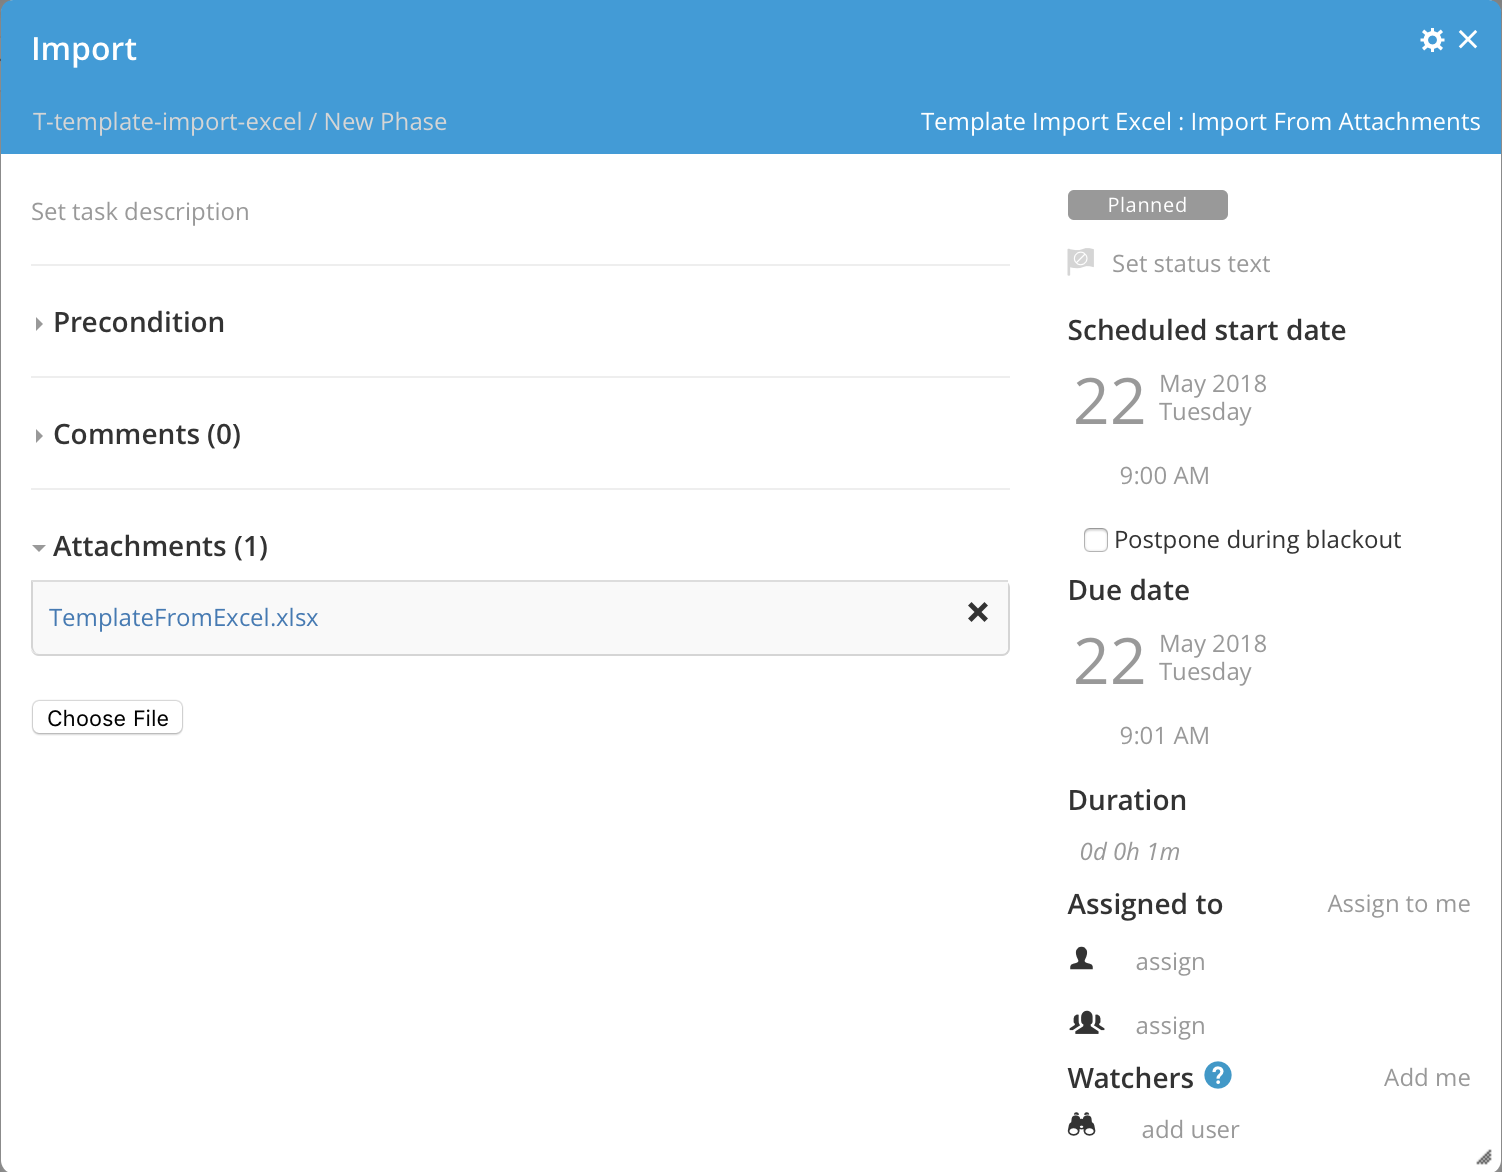
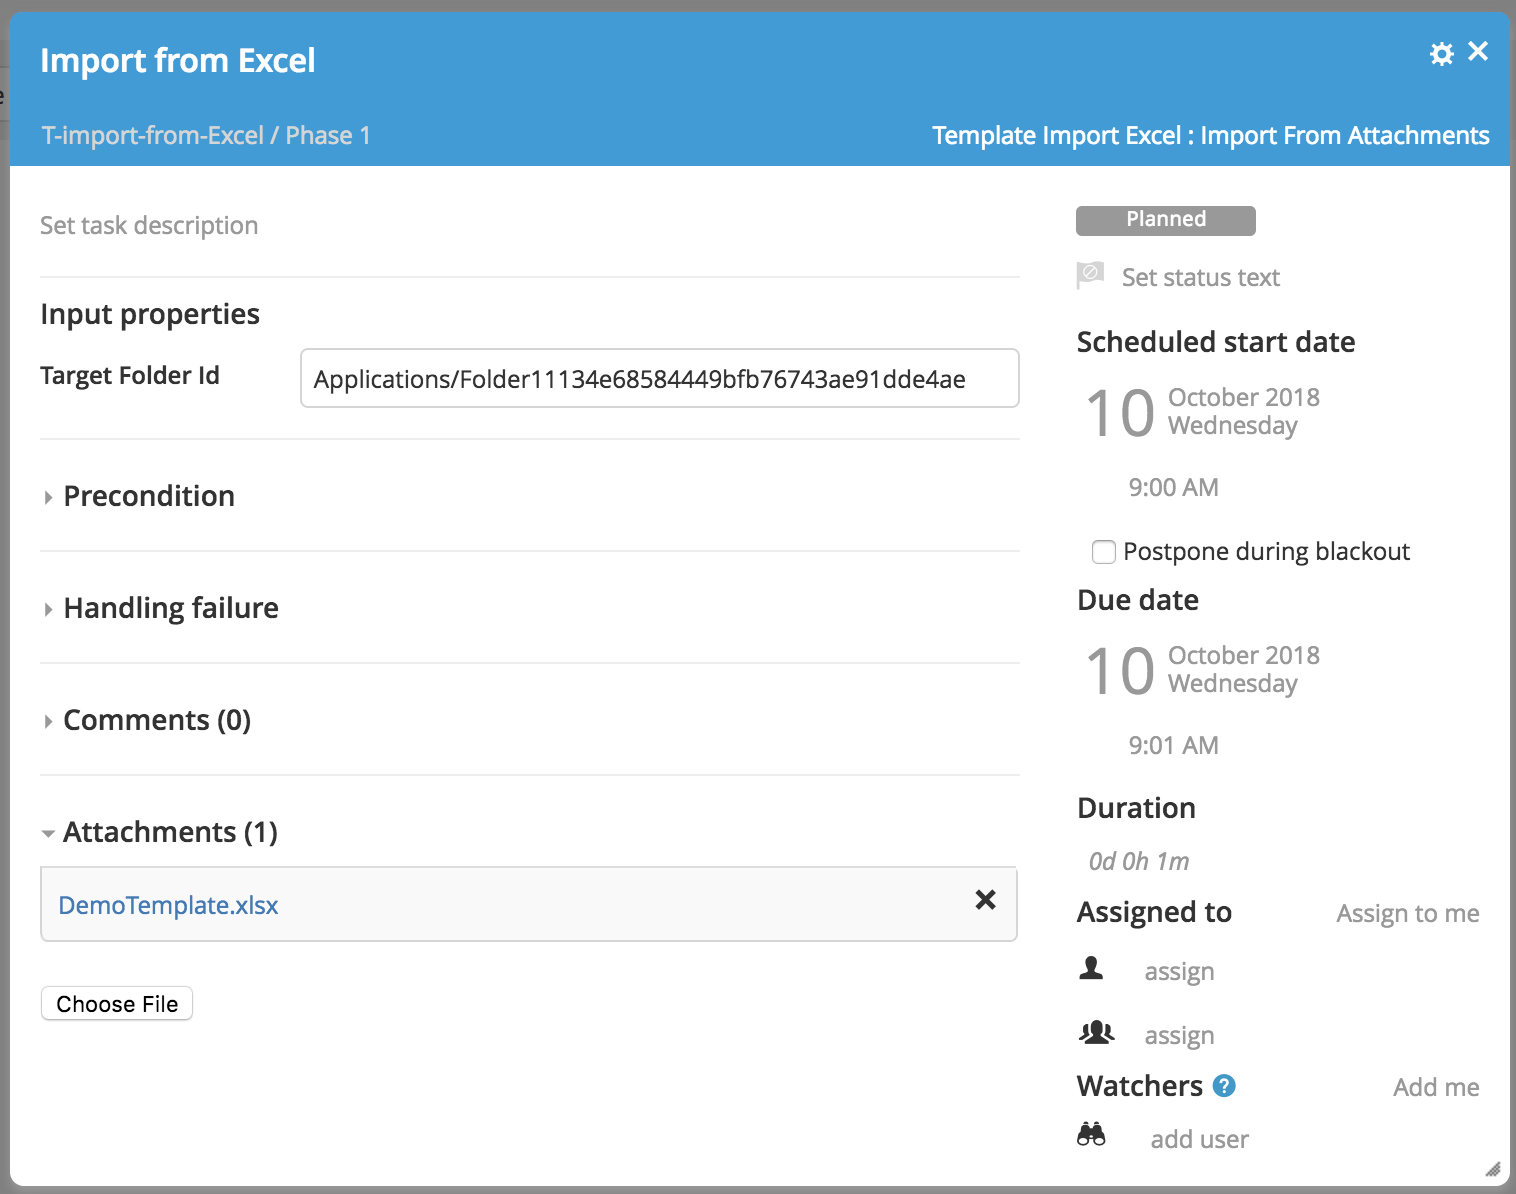
Update createTemplate() args for XLR 8

diff --git a/src/main/resources/templateImportExcel/TemplateImportExcelClient.py b/src/main/resources/templateImportExcel/TemplateImportExcelClient.py
@@ -33,10 +33,11 @@ class Template_Import_Excel_Client(object):
 
     durationMatcher = None
 
-    def __init__(self, workbook, templateName, templateApi, phaseApi, taskApi):
+    def __init__(self, workbook, targetFolderId, templateName, templateApi, phaseApi, taskApi):
         self.columnXref = {}
         self.currentPhaseTitle = None
         self.currentPhase = None
+        self.targetFolderId = targetFolderId
         self.templateName = templateName
         self.workbook = workbook
         self.templateApi = templateApi
@@ -45,8 +46,8 @@ class Template_Import_Excel_Client(object):
         self.durationMatcher = re.compile("(?:([0-9]+)d)? *(?:([0-9]+)h)? *(?:([0-9]+)m)?")
 
     @staticmethod
-    def create_client(workbook, templateName, templateApi, phaseApi, taskApi):
-        return Template_Import_Excel_Client(workbook, templateName, templateApi, phaseApi, taskApi)
+    def create_client(workbook, targetFolderId, templateName, templateApi, phaseApi, taskApi):
+        return Template_Import_Excel_Client(workbook, targetFolderId, templateName, templateApi, phaseApi, taskApi)
 
     def doHeaderRow(self, row):
         for cell in row:
@@ -145,7 +146,7 @@ class Template_Import_Excel_Client(object):
         template.setTitle(self.templateName)
         template.setStatus(ReleaseStatus.TEMPLATE)
         template.setScheduledStartDate(Date())
-        self.template = self.templateApi.createTemplate(template)
+        self.template = self.templateApi.createTemplate(template, self.targetFolderId)
 
         for row in sheet:
             print "Row %d\n" % row.getRowNum()

diff --git a/src/main/resources/templateImportExcel/import-rest.py b/src/main/resources/templateImportExcel/import-rest.py
@@ -16,11 +16,11 @@ from templateImportExcel.TemplateImportExcelClientUtil import Template_Import_Ex
 
 logger.info("Executing templateImportExcel/import-rest.py")
 
+targetFolderId = request.entity['data']['targetFolderId']
 templateName = request.entity['data']['templateName']
 workbook = XSSFWorkbook(ByteArrayInputStream(Base64.decodeBase64(request.entity['data']['result'])))
 print "created workbook\n"
-templateName = attachment.getFile().getName().split('.')[-2]
-client = Template_Import_Excel_Client_Util.create_client(workbook, templateName, templateApi, phaseApi, taskApi)
+client = Template_Import_Excel_Client_Util.create_client(workbook, targetFolderId, templateName, templateApi, phaseApi, taskApi)
 client.convertWorkbookToTemplate()
 
 logger.info("Exiting import-rest.py")

diff --git a/samples/send-file-via-rest-api-1.1.0.py b/samples/send-file-via-rest-api-1.1.0.py
@@ -3,9 +3,10 @@ import json
 import requests
 import sys
 
-templateName = sys.argv[1]
-filename = sys.argv[2]
-auth = (sys.argv[3], sys.argv[4])
+targetFolderId = sys.argv[1]
+templateName = sys.argv[2]
+filename = sys.argv[3]
+auth = (sys.argv[4], sys.argv[5])
 
 headers = {'Content-Type':'application/json'}
 
@@ -18,7 +19,6 @@ while (b != ''):
   b = f.read(1)
 print len(bytes)
 bytearray = b''.join(bytes)
-payload = {"data":{"templateName":templateName, "result":base64.b64encode(bytearray)}}
+payload = {"data":{"targetFolderId":targetFolderId, "templateName":templateName, "result":base64.b64encode(bytearray)}}
 r = requests.post('http://localhost:5516/api/extension/templateImportExcel/import', json.dumps(payload), auth=auth, headers=headers)
 print r
-

diff --git a/src/main/resources/templateImportExcel/TemplateImportExcelClientUtil.py b/src/main/resources/templateImportExcel/TemplateImportExcelClientUtil.py
@@ -13,6 +13,6 @@ from templateImportExcel.TemplateImportExcelClient import Template_Import_Excel_
 class Template_Import_Excel_Client_Util(object):
 
     @staticmethod
-    def create_client(workbook, templateName, templateApi, phaseApi, taskApi):
+    def create_client(workbook, targetFolderId, templateName, templateApi, phaseApi, taskApi):
         print "Executing create_client() in Template_Import_Excel_Client_Util class in TemplateImportExcelClientUtil.py\n"
-        return Template_Import_Excel_Client.create_client(workbook, templateName, templateApi, phaseApi, taskApi)
+        return Template_Import_Excel_Client.create_client(workbook, targetFolderId, templateName, templateApi, phaseApi, taskApi)

diff --git a/src/main/resources/templateImportExcel/import-task.py b/src/main/resources/templateImportExcel/import-task.py
@@ -18,7 +18,7 @@ for attachment in getCurrentTask().getAttachments():
         workbook = XSSFWorkbook(ByteArrayInputStream(releaseApi.getAttachment(attachment.getId())))
         print "created workbook\n"
         templateName = attachment.getFile().getName().split('.')[-2]
-        client = Template_Import_Excel_Client_Util.create_client(workbook, templateName, templateApi, phaseApi, taskApi)
+        client = Template_Import_Excel_Client_Util.create_client(workbook, targetFolderId, templateName, templateApi, phaseApi, taskApi)
         client.convertWorkbookToTemplate()
     else:
         print "Attachment %s is not a spreadsheet\n" % attachment.getFile().getName()

diff --git a/samples/send-file-via-rest-api-1.0.2.py b/samples/send-file-via-rest-api-1.0.2.py
@@ -1,0 +1,23 @@
+import base64
+import json
+import requests
+import sys
+
+templateName = sys.argv[1]
+filename = sys.argv[2]
+auth = (sys.argv[3], sys.argv[4])
+
+headers = {'Content-Type':'application/json'}
+
+bytes = []
+
+f = open(filename, 'rb')
+b = f.read(1)
+while (b != ''):
+  bytes.append(b)
+  b = f.read(1)
+print len(bytes)
+bytearray = b''.join(bytes)
+payload = {"data":{"templateName":templateName, "result":base64.b64encode(bytearray)}}
+r = requests.post('http://localhost:5516/api/extension/templateImportExcel/import', json.dumps(payload), auth=auth, headers=headers)
+print r

diff --git a/README.md b/README.md
@@ -26,7 +26,8 @@ Coding for Team and Duration is not complete, so those columns will be ignored p
 
 ## Requirements
 
-* XL Release 7+
+* XL Release 7.x for verions 1.0.1 or 1.0.2
+* XL Release 8+ for version 1.1.0
 
 ## Installation
 
@@ -37,6 +38,7 @@ Coding for Team and Duration is not complete, so those columns will be ignored p
 
 * The Import-from-Attachments task imports multiple Excel spreadsheet attachments on a task and converts then into templates base on the file name.
 * The plugin can also accept an Excel spreadsheet file via the REST API.
+* Version 1.1.0 (XL Release 8+) offers a targetFolderId property.  If empty, the template will be created in the same folder as the release running the task.
 
 ![[import-from-attachments-task]](images/import-from-attachments-task.png)
 
